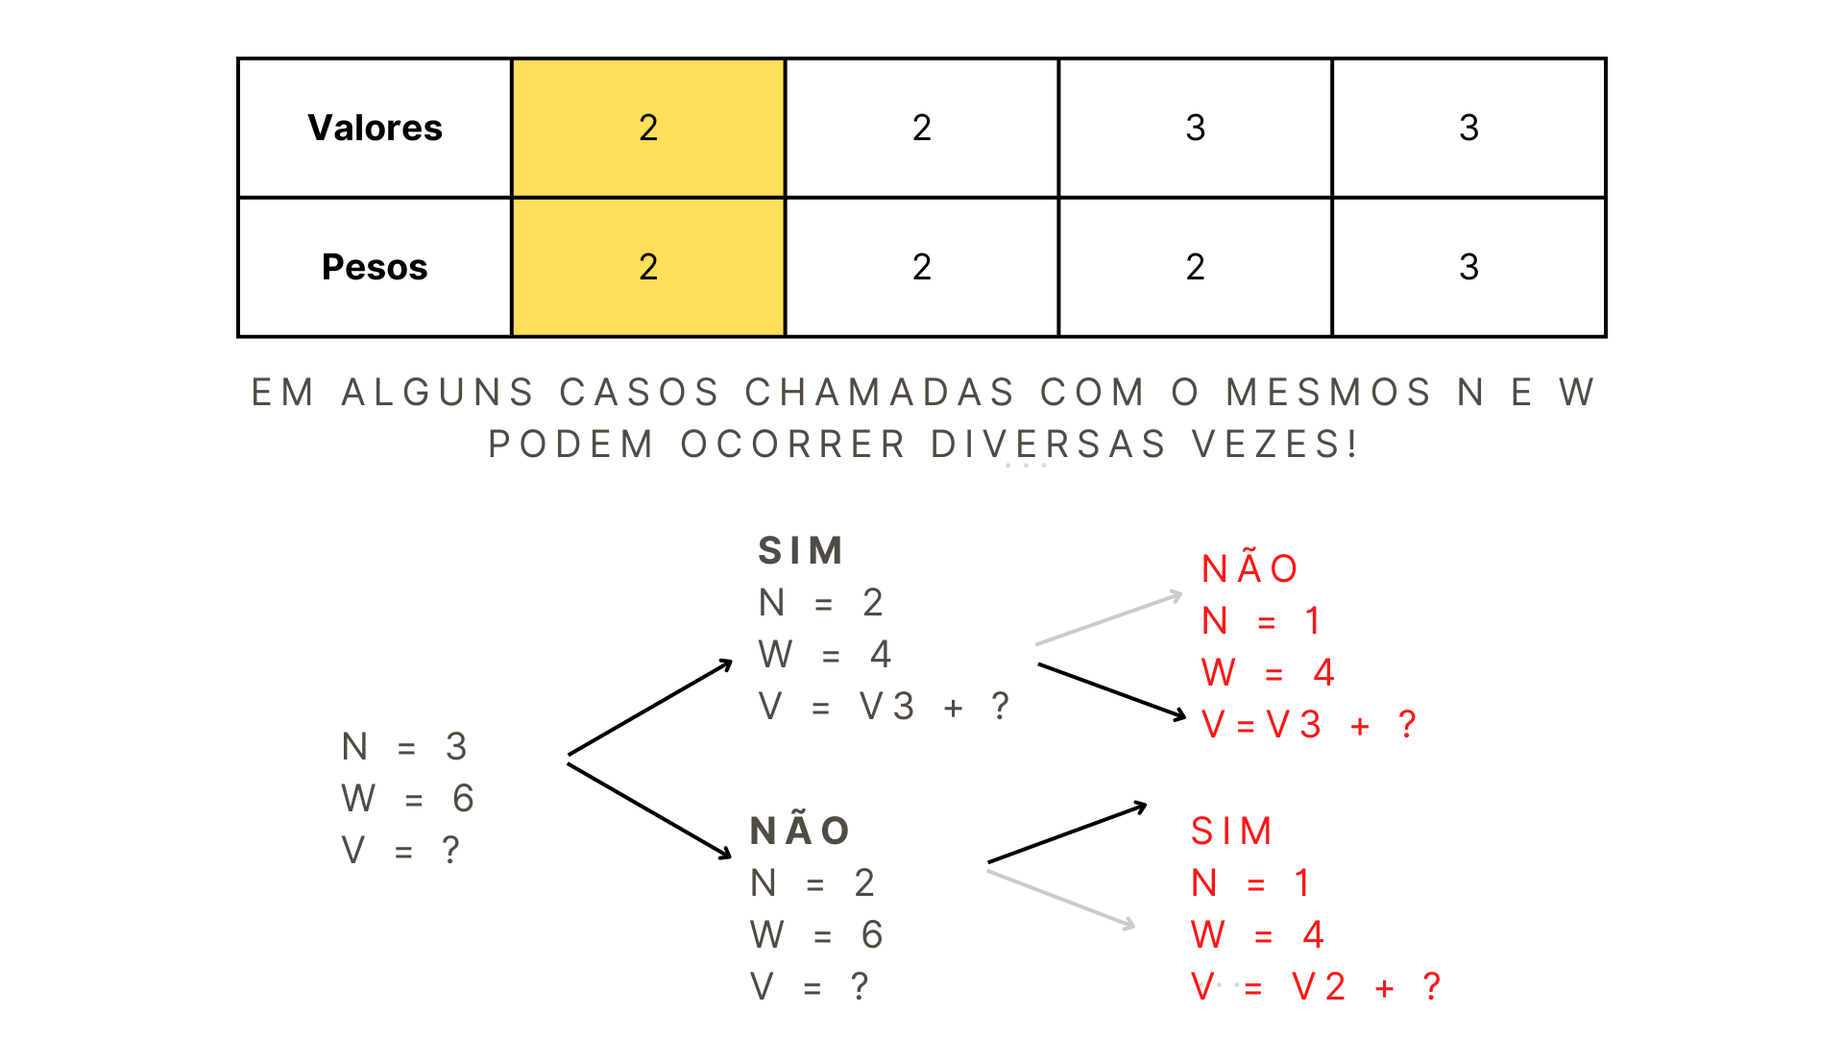
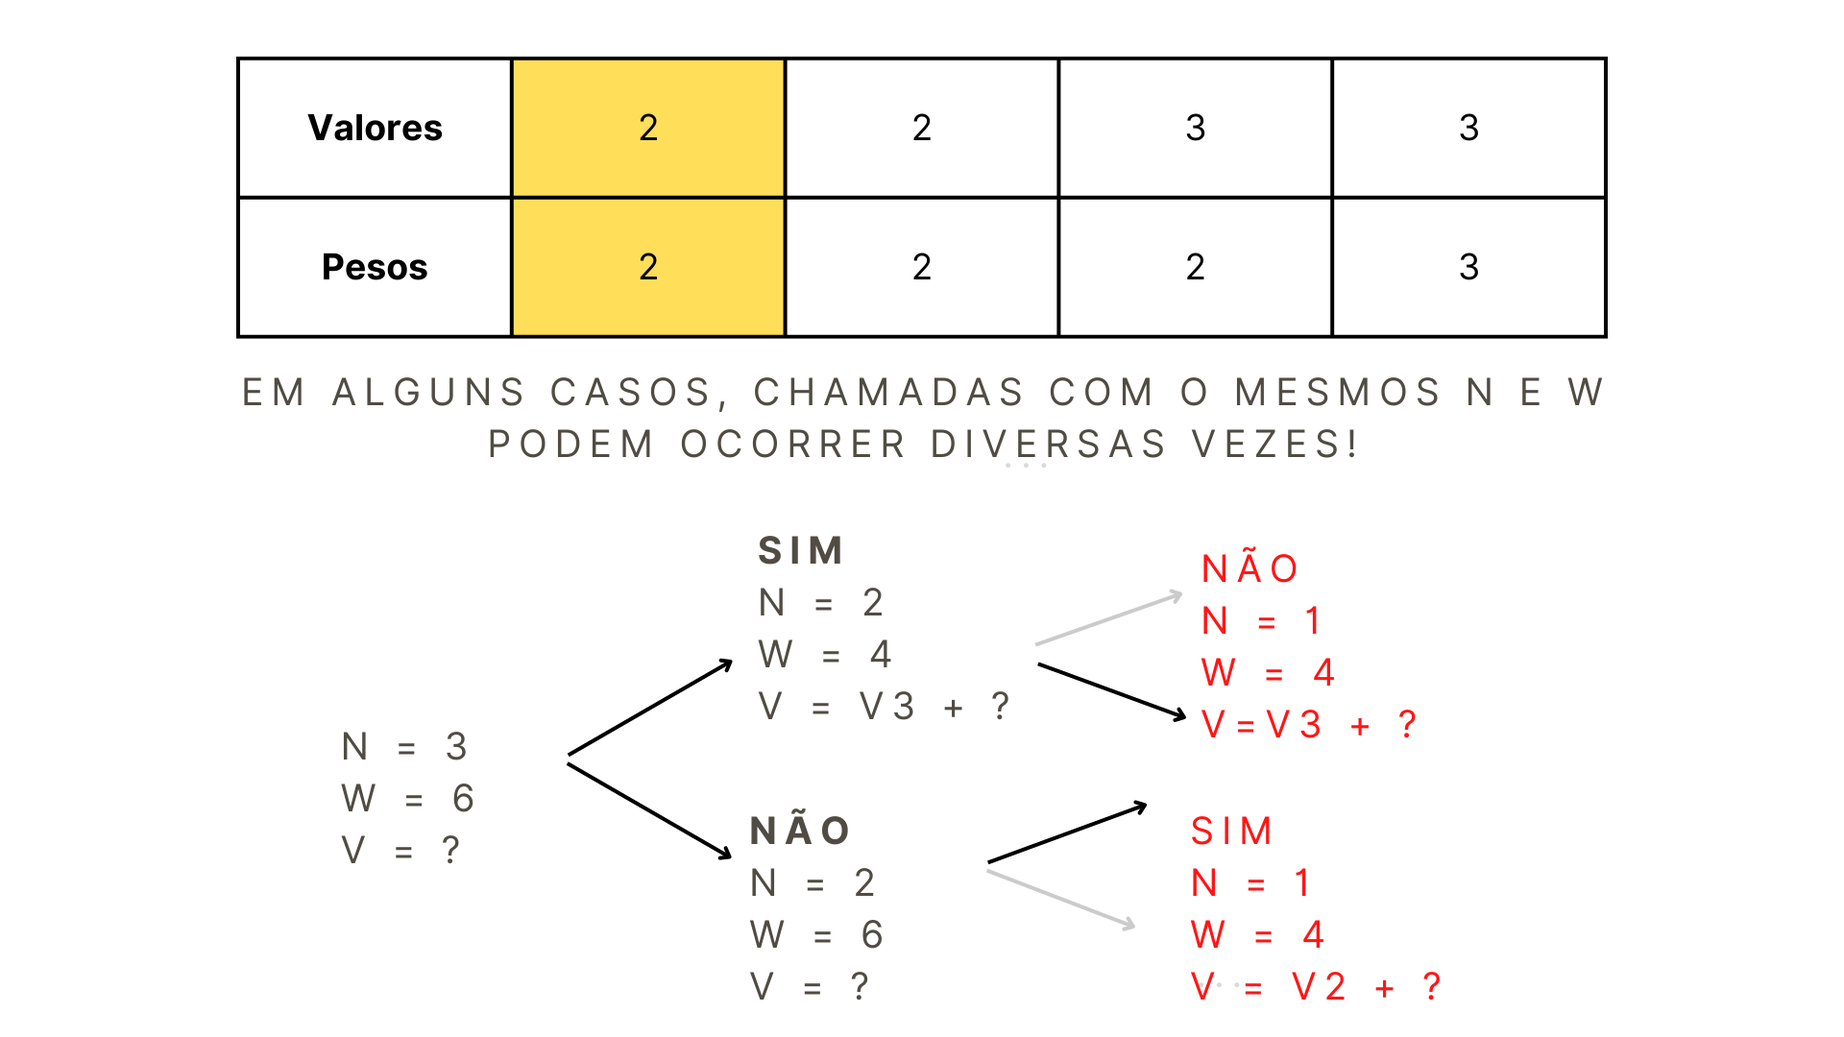
Sprint 3 quase pronta

Changed region(s): [[0.125, 0.3667, 0.875, 0.3972]]

diff --git a/src/handout.md b/src/handout.md
@@ -16,9 +16,9 @@ Para entendermos melhor o problema da mochila, vamos considerar uma situação d
     <img src="mochila.jpg" alt="mochila" width="140"/>
 </div>
 
-Esse é o Fernando, um estudante do 4o semestre de engenharia do Insper. Fernando deixou para ultima hora estudar para sua prova final de eletromagnetismo, mas como sabemos essa é uma matéria muito vasta e com diversos conteúdos, sendo impossivel estudar tudo nas 6 horas que ele tinha disponível.
+Esse é o Fernando, um estudante do 4° semestre de engenharia do Insper. Fernando deixou para última hora estudar para sua prova final de eletromagnetismo, mas como sabemos essa é uma matéria muito vasta e com diversos conteúdos, sendo impossível estudar tudo nas 6 horas que ele tinha disponível.
 
-Tendo isso em vista, Fernando pensou em uma ideia para tentar se salvar, que consistia em separar toda a máteria em áreas de estudo. Para cada área, Fernando analisou quanto tempo ele demoraria para aprender e a média de quantos pontos cada conteudo correspondeu nas últimas cinco provas dos semestres passados. Com esses dados em mãos, Fernando agora só precisa encontrar a melhor combinação de áreas para estudar. 
+Tendo isso em vista, Fernando pensou em uma ideia para tentar se salvar, que consistia em separar toda a máteria em áreas de estudo. Para cada área, Fernando analisou quanto tempo ele demoraria para aprender e a média de quantos pontos cada conteúdo correspondeu nas últimas cinco provas dos semestres passados. Com esses dados em mãos, Fernando agora só precisa encontrar a melhor combinação de áreas para estudar. 
 
 
 <!-- <div style="height:300px;display:flex;justify-content:space-evenly;align-items:flex-start;">
@@ -26,14 +26,14 @@ Tendo isso em vista, Fernando pensou em uma ideia para tentar se salvar, que con
 </div> -->
 
 <div style="height:200px;display:flex;align-items:center;justify-content:space-evenly">
-    <img src="Eletrodinamica.jpg" alt="áreas de estudo" height="120" />
-    <img src="Laboratorios.jpg" alt="áreas de estudo" height="120" />
-    <img src="Maxwell.jpg" alt="áreas de estudo" height="120" />
-    <img src="Ondulatoria.jpg" alt="áreas de estudo" height="120" />
+    <img src="eletrodinamica.jpg" alt="áreas de estudo" height="120" />
+    <img src="laboratorios.jpg" alt="áreas de estudo" height="120" />
+    <img src="maxwell.jpg" alt="áreas de estudo" height="120" />
+    <img src="ondulatoria.jpg" alt="áreas de estudo" height="120" />
 </div>
 
 
-O primeiro pensamento do estudante foi de estudar as duas maiores áreas em relação a pontução. Assim, ele estudaria Ondulatória e Leis de Maxwell que consumiriam 5,5 horas de estudo e lhe garantiriam 6 pontos na prova. 
+O primeiro pensamento do estudante foi de estudar as duas maiores áreas em relação a pontuação. Assim, ele estudaria Ondulatória e Leis de Maxwell que consumiriam 5 horas de estudo e lhe garantiriam 6 pontos na prova. 
 
 <!-- <div style="height:300px;display:flex;justify-content:space-evenly;align-items:flex-start;">
     <img src="1escolha.png" alt="primeira escolha" height="280" width="80%" />
@@ -42,25 +42,25 @@ O primeiro pensamento do estudante foi de estudar as duas maiores áreas em rela
 <div style="height:200px;display:flex;align-items:center;justify-content:space-evenly">
     <!-- <img src="Eletrodinamica.jpg" alt="áreas de estudo" height="120" style="opacity:0.3"/>
     <img src="Laboratorios.jpg" alt="áreas de estudo" height="120" style="opacity:0.3"/> -->
-    <img src="Maxwell.jpg" alt="áreas de estudo" height="120" />
-    <img src="Ondulatoria.jpg" alt="áreas de estudo" height="120" />
+    <img src="maxwell.jpg" alt="áreas de estudo" height="120" />
+    <img src="ondulatoria.jpg" alt="áreas de estudo" height="120" />
 </div>
 
 
 ??? Checkpoint 
-Você deve ter percebido que o Fernando subestimou o problema de planejar o seus estudos. Qual é a melhor maneira que ele pode combinar as matérias para que possa estudar a maior combinação de pontos possíveis nas 6 horas que ele tem disponível?
+Você deve ter percebido que o Fernando subestimou o problema de planejar os seus estudos. Qual é a melhor maneira que ele pode combinar as matérias para que possa estudar a maior combinação de pontos possíveis nas 6 horas que ele tem disponível?
 
 ::: Gabarito
-Para maximizar os seus estudos Fernando deveria levar em conta opções fora as de maior valor! Assim chegaria que a melhor opção é estudar Eletrodinâmica, Laboratórios e Leis de Maxwell. 
+Para maximizar os seus estudos, Fernando deveria levar em conta opções fora as de maior valor! Assim chegaria que a melhor opção é estudar Eletrodinâmica, Laboratórios e Leis de Maxwell. 
 
 <!-- <div style="height:300px;display:flex;justify-content:space-evenly;align-items:flex-start;">
     <img src="solucao.png" alt="solucao" height="280" width="80%" />
 </div> -->
 
 <div style="height:200px;display:flex;align-items:center;justify-content:space-evenly">
-    <img src="Eletrodinamica.jpg" alt="áreas de estudo" height="120"/>
-    <img src="Laboratorios.jpg" alt="áreas de estudo" height="120"/>
-    <img src="Maxwell.jpg" alt="áreas de estudo" height="120" />
+    <img src="eletrodinamica.jpg" alt="áreas de estudo" height="120"/>
+    <img src="laboratorios.jpg" alt="áreas de estudo" height="120"/>
+    <img src="maxwell.jpg" alt="áreas de estudo" height="120" />
 </div>
 :::
 
@@ -68,27 +68,80 @@ Para maximizar os seus estudos Fernando deveria levar em conta opções fora as 
 
 Para a sorte do Fernando, o seu amigo Pedro que está no quinto semestre percebeu que seu dilema era muito relacionado a um problema que ele estava estudando na matéria de Desafios da Programação, **o problema da mochila**! 
 
-Curioso, Fernando pediu para que seu amigo explicasse como resolveu o problema:
+Curioso, Fernando pediu para que seu amigo explicasse como resolveu o problema.
+
+??? Checkpoint
+Primeiro Pedro pediu para que Fernando considerasse o caso mais simples de todos, uma mochila vazia e apenas um item. Qual deverá ser o processo de escolha para preencher a mochila nesse caso?
+
+::: Gabarito
+Primeiro devemos verificar se o item cabe ou não na mochila. Se esse item couber, vamos coloca-lo na mochila e considerar que o valor da mochila agora é o valor anterior da mochila, somado com o valor do item. Para esse caso de mochila vazia, o valor será somente o próprio valor do item!
+
+:mochila_vazia
+:::
+???
+
+Claro que a primeira vista, o caso mais simples de todos não parece ser muito útil para resolver um problema complexo como esse.
+
+??? Checkpoint
+Será que não existe uma maneira de transformar um problema da mochila que analisa vários itens em problemas menores, ou até mesmo, em vários subproblemas que analisam o caso trivial visto acima? Que método de resolução de problemas de programação seria útil para nos auxiliar nisso?
+
+::: Gabarito
+Quando consideramos três itens por exemplo, é possível dividir esse problema em subproblemas de dois itens. Com a resposta dos subproblemas analisaremos se vale a pena ou não colocar o terceiro item na mochila! 
+
+Isso seria uma abordagem **recursiva** para resolver o problema da mochila! Para resolver o problema para três itens, preciso primeiro saber a resposta desse problema para dois itens, e assim em diante. 
+
+:recursao
+::: 
+???
+
+Porém, determinar quais são os subproblemas não é tão simples, envolve determinar qual mochila tem o maior valor: caso colocassemos o item atual na mochila e caso não colocassemos! Isso garante que vamos levar em conta todas as combinações possiveis de itens dentro da mochila e assim vamos conseguir determinar qual o maior valor possivel para essas combinações. 
+
+??? Checkpoint
+Quais os subproblemas necessários para determinar a melhor mochila possível para um universo de 4 itens? Como as duas variáveis da mochila, capacidade e valor, são diferentes nesses subproblemas? 
+::: Gabarito
+Os dois subproblemas são: a melhor mochila com 3 itens caso não colocassemos o 4º item na mochila e a melhor mochila caso colocassemo o 4º item na mochila!
+
+Para o primeiro subproblema, a capacidade da mochila não se altera, já que não colocamos o item na mochila, e o valor será igual ao valor do subproblema. Já para o segundo subproblema, a capacidade da mochila será a capacidade atual da mochila subtraida do peso do 4º item, e o valor será o valor do subproblema somado do valor do 4º item.
+
+:passo_da_recursao
+:::
+???
+
+Vamos ver se você está entendendo qual é o **passo da recursao** para o problema da mochila!
+
+??? Checkpoint
+Considerando os valores e pesos dos itens abaixo e n = 3, desenhe as chamadas recursivas de n = 2 e n = 1, e quais os de W e V. 
+
+![](cp.png)
+::: Gabarito
+![](cp_gabarito.png)
+:::
+???
+
+Agora que já dominamos o passo da recursão vamos considerar a **base da recursão**.
+
+??? Checkpoint
+Pense em qual deve ser a base do problema.
+
+Dica: Quais serão as situações em que não conseguiremos mais colocar itens na mochila?
+::: Gabarito
+A base da recursão será quando **n = 0**, ou seja, consideramos todos os itens ou **W = 0**, o caso em que não é possível mais preencher a mochila! 
+:::
+
+???
+
+Podemos resumir o algoritmo da seguinte maneira:
 
 :busca
 
-<!-- Fernando, um novo estudante!
----------------
-
-Com a ajuda de Pedro, Fernando conseguiu passar na prova que mal havia estudado. Percebendo o quanto seu tempo de estudo foi otimizado ao utilizar do algorítimo, ele decidiu por usa-lo novamente para organizar seus estudos semanais. 
-
-De segunda a sexta Fernando tem disponíveis 3 horas por dia para estudar os conteúdos das suas 5 matérias da faculdade. No final de todo seu planejamento, ele teria 35 conteudos para serem estudados em 45 horas, visando as provas finais que estão a três semanas de distância. 
-
-Sendo assim, pediu que seu amigo o explica-se como ele resolveu o problema da mochila para a situação anterior: -->
-
 [comment]: <> (animação do slide)
 
-A resolução de Pedro para o problema é conhecida como **busca exaustiva!**
+A resolução de Pedro para o problema é conhecida como **recursão de força bruta!**
 
-Busca exaustiva
+Recursão de força bruta
 ---------------
 
-Vamos começar a pensar em como traduzir essa resolução para código. Precisamos escrever uma função que recebe como entrada os itens e a capacidade da mochila e nos devolve o maior valor possível que cabe na mochila para aqueles itens. Lembrando que cada item possui um valor e um peso. 
+Vamos começar a pensar em como traduzir essa resolução para código. Precisamos escrever uma função que recebe como entrada os itens e a capacidade da mochila e nos devolve o maior valor possível que cabe na mochila para aqueles itens. Lembrando que cada item possui um valor e um peso.  
 
 ??? Checkpoint 
 Considerando que estamos escrevendo uma função em C, como podemos representar os itens, dado que cada item possui um par valor e peso?
@@ -96,8 +149,8 @@ Considerando que estamos escrevendo uma função em C, como podemos representar 
 ::: Gabarito
 A maneira mais simples seria dois arrays, um para os valores, outro para os pesos.
 ``` c
-int valores[] = {1, 2, 3, 4};
-int pesos[] = {1, 2, 3, 4};
+int valores[] = {2, 2, 3, 3};
+int pesos[] = {2, 2, 2, 3};
 ```
 Para o item **n**, o seu valor estaria em ```c valores[n - 1]``` e seu peso em ```c pesos[n - 1]```.
 :::
@@ -115,7 +168,7 @@ int knapsack(int valores[], int pesos[], int n, int W);
 :::
 ???
 
-Vamos começar a pensar no conteudo da função ```c knapsack()```. Para a solução que queremos implementar vamos utilizar de **chamadas recursivas**!
+Vamos começar a pensar no conteudo da função ```c knapsack()```.
 
 [comment]: <> (imagem da animação)
 
@@ -157,7 +210,7 @@ int knapsack(int valores[], int pesos[], int n, int W) {
 }
 ```
 
-Para uma solução com melhor legibilidade poderiamos definir uma função ```c max()``` que devolve o maior valor entre dois inteiros. Além disso, para evitar chamadas recursivas desnecessárias podemos verificar se o item **n** cabe ou não na mochila.
+Para uma solução com melhor legibilidade, poderíamos definir uma função ```c max()``` que devolve o maior valor entre dois inteiros. Além disso, para evitar chamadas recursivas desnecessárias, podemos verificar se o item **n** cabe ou não na mochila.
 
 ```c 
 int max(int a, int b) {
@@ -187,8 +240,6 @@ Ainda temos um problema, a função que escrevemos não tem nenhuma base, o que 
 
 ??? Checkpoint
 Escreva a base da função ```c knpasack() ```
-
-Dica: Analise as chamadas recursivas dos checkpoints anteriores para saber o que está sendo mudado a cada chamada 
 
 :::Gabarito 
 ```c
@@ -232,7 +283,7 @@ int knapsack(int valores[], int pesos[], int n, int W) {
 Finalmente temos um algoritmo que pode solucionar o problema da mochila! Mas será que essa é a melhor solução possível? 
 
 ??? Checkpoint
-Usando as estratégias vistas em aula, calcule a complexidade do algoritmo da **busca exaustiva** utilizando a notação **O**!
+Usando as estratégias vistas em aula, calcule a complexidade do algoritmo da **recursão de força bruta**, utilizando a notação **O**!
 
 
 :::Gabarito
@@ -244,9 +295,9 @@ k(n, W) = <
            | k(n - 1, W) + k(n - 1, W - a)    se n ou W > 0;
             \
 ```
-OBS: Como a notação O leva sempre em consideração o pior caso possível, para obtermos o maior número de chamadas recursivas para a função ```c knapsack()``` "a" teria que ser igual a **zero**! Por isso, no pior caso a função sempre faz duas chamadas recursivas já que sempre entra no ```c if(W >= pesos[n - 1])```.
+OBS: Como a notação O leva sempre em consideração o pior caso possível, para obtermos o maior número de chamadas recursivas para a função ```c knapsack()```, "a" teria que ser igual a **zero**! Por isso, no pior caso a função sempre faz duas chamadas recursivas, já que sempre entra no ```c if(W >= pesos[n - 1])```.
 
-Assim o parâmetro W pode ser desconsiderado para esse calculo: 
+Assim o parâmetro W pode ser desconsiderado para esse cálculo: 
 ```c
          /
         | 1           se n == 0;
@@ -293,10 +344,10 @@ Como h <= n, a complexidade é O(2^n)
 :::
 ???
 
-O problema da busca exaustiva
+O problema da recursão de força bruta
 -----------------------------
 
-Como vocês devem imaginar após calcular a complexidade da **busca exaustiva** esse não deve ser o melhor algoritmo para resolver o problema da mochila. O principal motivo para essa complexidade alta é a quantidade enorme de **chamadas repetidas** que são feitas ao longo de uma rotina:
+Como vocês devem imaginar após calcular a complexidade da **recursão de força bruta**, esse não deve ser o melhor algoritmo para resolver o problema da mochila. Aliás, ser uma abordagem de força bruta já indica isso. O principal motivo para essa complexidade alta é a quantidade enorme de **chamadas repetidas** que são feitas ao longo de uma rotina:
 
 :memo
 
@@ -308,7 +359,7 @@ Existe algum jeito que podemos usar resultados de chamadas já feitas durante a 
 Dica: Relembre o que foi feito na APS 3
 
 :::Gabarito
-Podemos utilizar uma matriz n x W para armezanar o resultado das chamadas de ```c knapsack()```! Essa estratégia é conhecida como **memoização**. 
+Podemos utilizar uma matriz n x W para armezanar o resultado das chamadas de ```c knapsack()```! Essa estratégia é conhecida como **memoização**.   
 :::
 ???
 
@@ -316,12 +367,12 @@ Podemos utilizar uma matriz n x W para armezanar o resultado das chamadas de ```
 Qual é a maneira mais adequada de inicializar uma matriz para esse problema? 
 
 :::Gabarito
-Precisamos iniciar a matriz com valores inválidos para a mochila, para que a função ao ver que a matriz n x W possui um valor invalido saiba que aquela combinação de n e W é inédita. Para o caso do problema da mochila, a mochila não pode ter valores negativos então -1 pode ser utilizado como valor inicial para a matriz. 
+Precisamos iniciar a matriz com valores inválidos para a mochila, para que a função ao ver que a matriz n x W possui um valor inválido saiba que aquela combinação de n e W é inédita. Para o caso do problema da mochila, a mochila não pode ter valores negativos, então -1 pode ser utilizado como valor inicial para a matriz. 
 :::
 ???
 
 ??? Checkpoint
-Modifique a função da busca exaustiva para que ela passe a utilizar a estratégia discutida nos checkpoint anteriores.
+Modifique a função da recursão por força bruta para que ela passe a utilizar a estratégia discutida nos checkpoint anteriores.
 
 :::Gabarito
 ```c
@@ -349,20 +400,69 @@ int knapsack(int valores[], int pesos[], int n, int W, int memo[][]) {
 Programação Dinâmica
 --------------------
 
-Ufa! Conseguimos resolver o problema das várias chamadas repetidas utilizando uma matriz cache. Mas pera ai, se a função ```c knapsack()``` existe apenas para preencher uma matriz n x W, podemos utilizar uma estratégia velha conhecida para preencher essa matriz. Um loop iterativo!
+Ufa! Conseguimos resolver o problema das várias chamadas repetidas utilizando uma matriz *cache*. Mas pera aí, se a função ```c knapsack()``` existe apenas para preencher uma matriz n x W, podemos utilizar uma estratégia velha conhecida para preencher essa matriz. Um loop iterativo!
 
-Esse método de transformar problemas recursivos em iterativos é conhecido como **programação dinâmica**. Ao invés de resolver o problema de maneira recursiva vamos resolve-los de maneira sequencial, utilizando o que já foi calculado para calcular o resultado atual. A estratégia continua basicamente a mesma: analisar se o maior valor é atingido colocando ou não o item atual na mochila. 
+Esse método de transformar problemas recursivos em iterativos é conhecido como **programação dinâmica**. Ao invés de resolver o problema de maneira recursiva, vamos resolvê-los de maneira sequencial, utilizando o que já foi calculado para obter o resultado atual. A estratégia continua basicamente a mesma: analisar se o maior valor é atingido colocando ou não o item atual na mochila.  
 
-Cada linha da matriz representa uma quantidade **n** de itens analisados, cada coluna uma capacidade que vai de **zero até W** e nas células serão guardados os maiores valores possiveis para aquela combinação n e W. A tabela vai sendo preenchida conforme a animação a seguir:
+Para uma matriz **n x W**, cada linha **n** representa uma quantidade de itens analisados, e cada capacidade de **zero até W**, uma capacidade para a mochila, e cada célula o **melhor valor** que cabe na mochila para aquela combinação n e W! Vamos considerar como podemos preencher essa matriz considerando que ao contrário da abordagem recursiva, estamos resolvendo o problema de baixo para cima.
+
+??? Checkpoint
+Quais são os casos triviais em que simplesmente preenchemos a célula da matriz com **zero**?
+::: Gabarito
+São situações em que a mochila não comporta nenhum item, por não termos nenhum item para ser analisado ou pela capacidade da mochila ser zero. São os mesmos casos considerados na **base da recursão!**
+
+:base_matriz
+:::
+???
+
+??? Checkpoint
+Ainda pensando sobre como preencher a matriz, como podemos preencher uma célula para o caso em que o item analisado não cabe na mochila?
+
+Dica: Assim como o caso anterior, a ideia por trás é muito semelhante ao o que é feito no algoritmo recursivo. 
+::: Gabarito
+Para esses casos, simplesmente copiamos o melhor valor possível determinado até então para esse valores de n e W. Esse valor é justamente o valor da célula n - 1 e W. 
+
+:nao_cabe
+:::
+???
+
+??? Checkpoint
+Como preenchemos a célula para o caso em que o item cabe na mochila?
+::: Gabarito
+Assim como na abordagem recursiva nós vamos considerar duas opções: colocar ou não o item na mochila. 
+
+Caso não colocássemos, vamos considerar o maior valor possível para aquela capacidade. Esse valor está na célula com n - 1 e W. 
+
+Caso colocássemos, vamos considerar a soma do maior valor possível para a mochila que cabe o item, somado do próprio valor do item. Esse valor está na célula n - 1 e W - peso do item. Ai está o pulo do gato da nossa matriz!
+
+O novo valor da célula será o maior valor dentre essas duas opções. 
+
+:item_cabe
+:::
+???
+
+Agora vamos conferir se estamos entendendo como preencher essa matriz!
+
+??? Checkpoint
+Preencha as duas últimas linhas da matriz a seguir:
+
+![](cp_matriz.png)
+::: Gabarito
+
+![](cp_matriz_gabarito.png)
+:::
+???
+
+Podemos resumir o processo de preenchimento da matriz da seguinte forma:
 
 :dinamico
 
 <!-- Animação de preencher a matriz -->
 
 ??? Checkpoint
-Agora que você já sabe como é feito preenchimento da matriz, escreva uma versão de ```c knapsack()``` utilizando programação dinâmica!
+Agora que você já sabe como é feito o preenchimento da matriz, escreva uma versão de ```c knapsack()``` utilizando programação dinâmica!
 ::: Gabarito
-Além de trocar a abordagem recursiva pela abordagem iterativa, não precisamos inicializar a matriz memo com valores negativos!
+Além de trocar a abordagem recursiva pela abordagem iterativa, não precisamos inicializar a matriz M com valores negativos!
 ```c
 int knapsack(int valores[], int pesos[], int n, int W) {
     int M[n + 1][W + 1];
@@ -388,7 +488,7 @@ Legal, conseguimos escrever um algoritmo de programação dinâmica para o probl
 ??? Checkpoint
 Calcule a complexidade ***O*** da solução de programação dinâmica usando as técnicas vistas em aula.
 :::
-Estimar as quantidade de iterações do loop externo em função de n:
+Estimar as quantidades de iterações do loop externo em função de n:
 ```txt
 Quantidade de iterações do loop externo (x):
 -------------------------------------------
